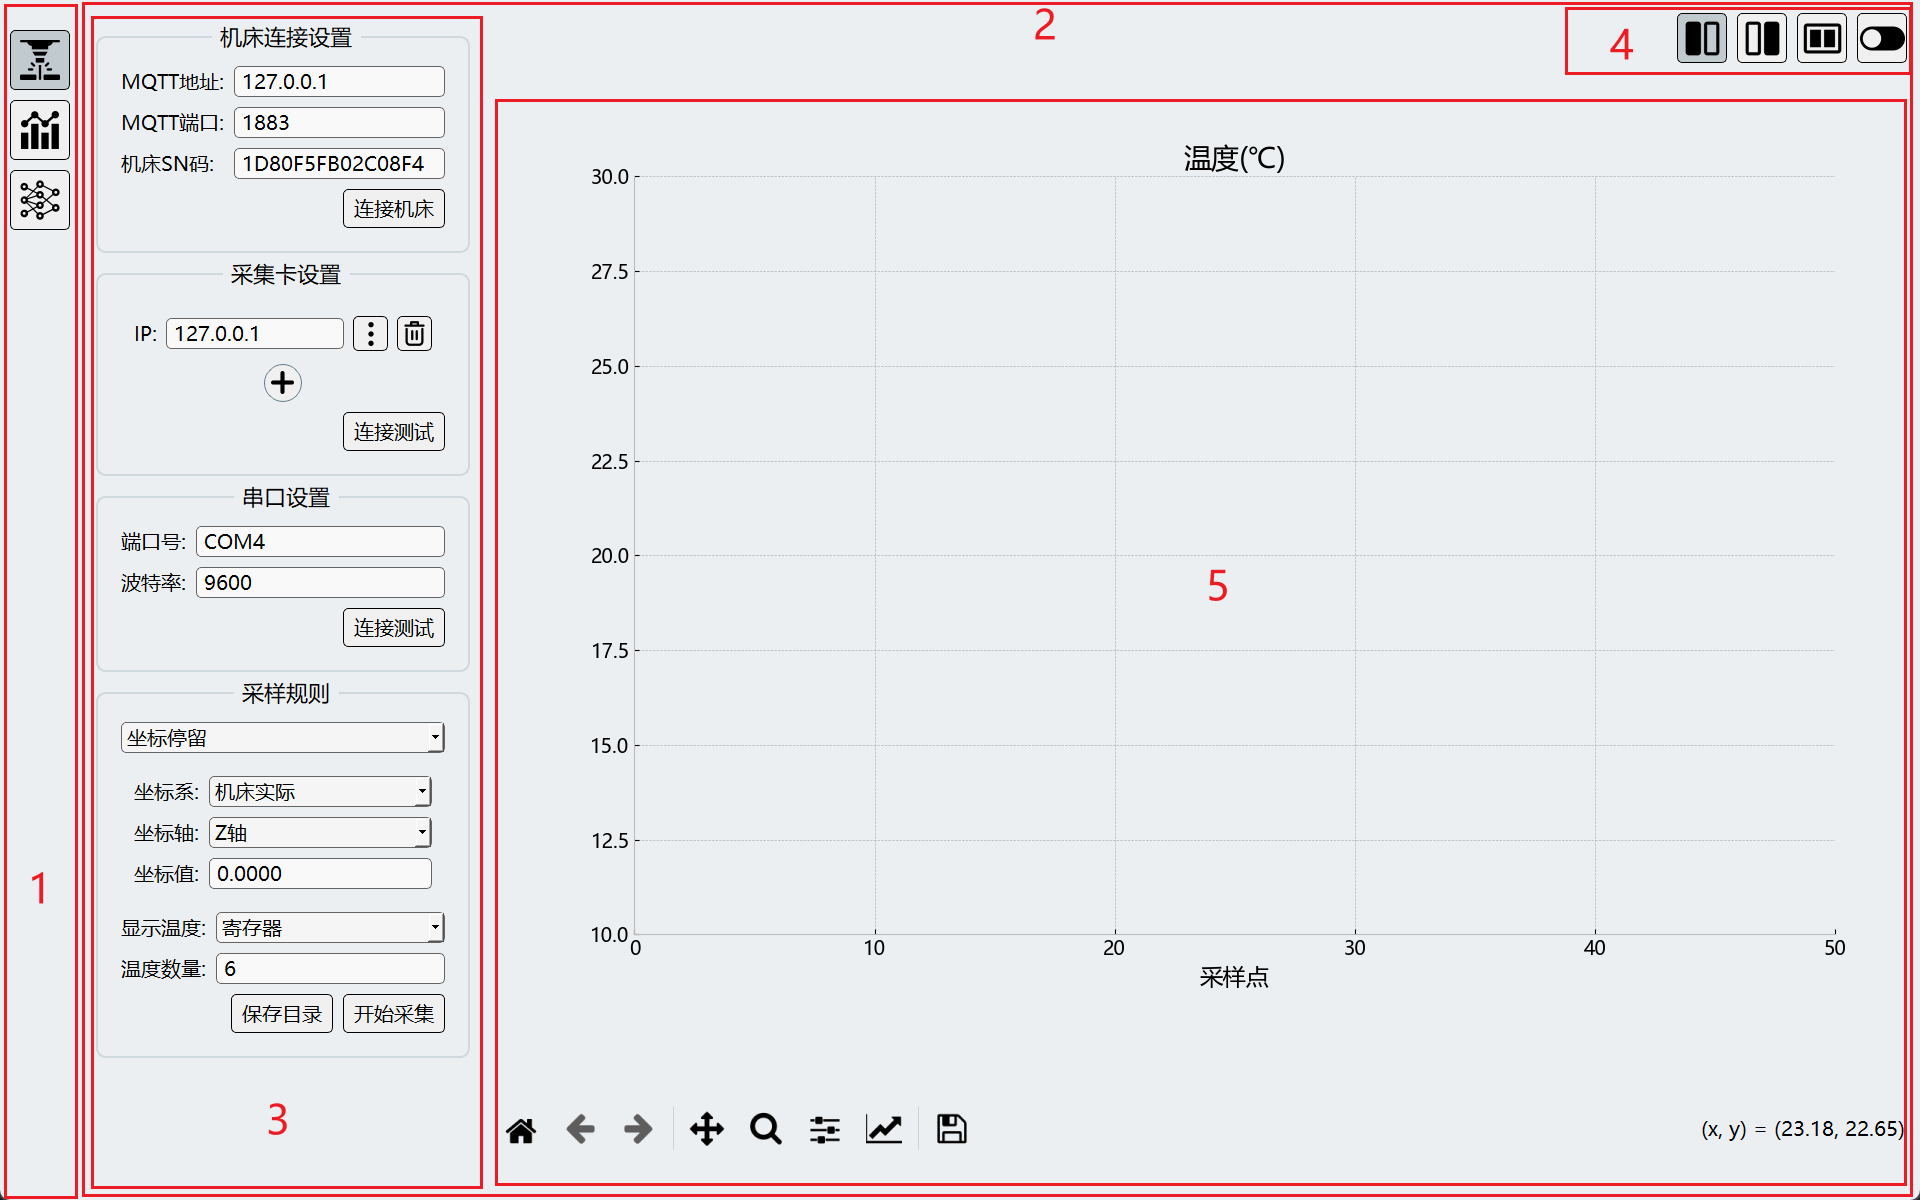
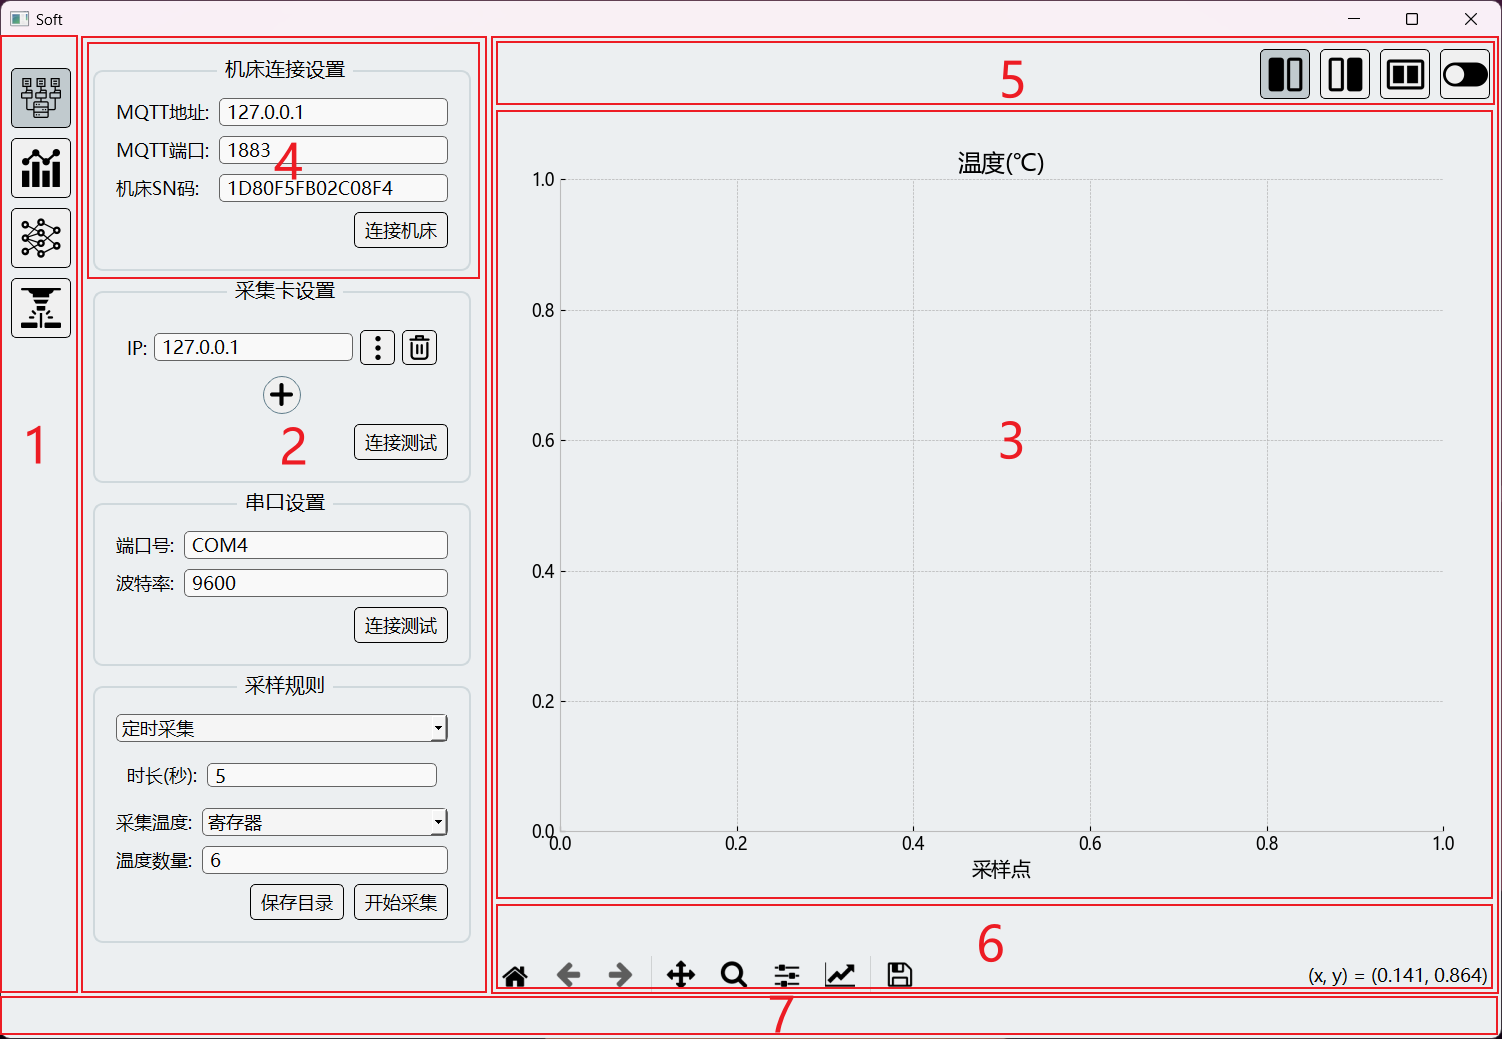
更新添加模型教程文档，更新布局图和使用视频

diff --git a/src/state.py b/src/state.py
@@ -12,9 +12,9 @@ from src.core.func import extract_numbers, extract_numbers
 from PyQt5.QtCore import pyqtSignal as Signal, QObject
 
 
-MAX_DATA_LEN = 3600 * 2  # 原始数据最大长度
+MAX_DATA_LEN = 3600 * 2  # 默认原始数据最大长度
 DEFAULT_SAMPLE_PATH = "./data"  # 默认采集文件夹路径
-RPM_AVG_INTER = 60  # 统计RPM平均值间隔(s)
+RPM_AVG_INTER = 60  # 默认统计RPM平均值间隔(s)
 
 
 class State(QObject):
@@ -369,38 +369,32 @@ class State(QObject):
                 print("设值失败")
 
     def load_model(self, para):
-        """
-        para["model_type"]  - 模型类型
-            对于"GAT-LSTM":
-                - para["num_heads"] - num_heads
-                - para["gnn_dim"] - gnn_dim
-                - para["lstm_dim"] - lstm_dim
-                - para["num_nodes"] - num_nodes
-                - para["seq_len"] - seq_len
-            其他模型:
-                -
-        para["file_path"] - 模型文件路径
-        """
-        match para["model_type"]:
+        # para中包含了模型类型、模型参数和文件路径
+        import torch
+
+        self.reset_model(model_type=para["model_type"], model_para=para)
+        self.model.load_state_dict(torch.load(para["file_path"]))
+    
+    # 重置模型
+    def reset_model(self, model_type, model_para):
+        match model_type:
             case "GAT-LSTM":
-                import torch
                 from src.core.gat_lstm import GATLSTM
 
                 self.model = GATLSTM(
                     in_dim=1,
                     out_dim=1,
-                    gat_hidden_dim=para["gnn_dim"],
-                    lstm_hidden_dim=para["lstm_dim"],
-                    num_nodes=para["num_nodes"],
-                    heads=para["num_heads"],
+                    gat_hidden_dim=model_para["gnn_dim"],
+                    lstm_hidden_dim=model_para["lstm_dim"],
+                    num_nodes=model_para["num_nodes"],
+                    heads=model_para["num_heads"],
                 )
-                self.model.load_state_dict(torch.load(para["file_path"]))
-            case "BPNN":
-                import torch
+            case _:
                 from src.core.bpnn import BPNN
 
-                self.model = BPNN(hidden_units=para["hidden_dim"], input_shape=para["input_shape"], output_shape=1)
-                self.model.load_state_dict(torch.load(para["file_path"]))
+                self.model = BPNN(
+                    input_shape=model_para["input_shape"], hidden_units=model_para["hidden_dim"], output_shape=1
+                )
 
     def start_train(self, para, tsp_res_text):
         # 获取选取的温度测点列表
@@ -453,27 +447,6 @@ class State(QObject):
 
         return datasets
 
-    # 重置模型
-    def reset_model(self, model_type, model_para):
-        match model_type:
-            case "GAT-LSTM":
-                from src.core.gat_lstm import GATLSTM
-
-                self.model = GATLSTM(
-                    in_dim=1,
-                    out_dim=1,
-                    gat_hidden_dim=model_para["gnn_dim"],
-                    lstm_hidden_dim=model_para["lstm_dim"],
-                    num_nodes=model_para["num_nodes"],
-                    heads=model_para["num_heads"],
-                )
-            case _:
-                from src.core.bpnn import BPNN
-
-                self.model = BPNN(
-                    input_shape=model_para["input_shape"], hidden_units=model_para["hidden_dim"], output_shape=1
-                )
-
     def train_thread_start(self, model_type, train_para):
         self.signal_start_train.emit()
         match model_type:
@@ -515,4 +488,3 @@ class State(QObject):
 
         torch.save(self.model.state_dict(), file_path)
 
-    # def import_tem_model(self, )

diff --git a/src/components/sample_rule_setting.py b/src/components/sample_rule_setting.py
@@ -10,7 +10,6 @@ from PyQt5.QtWidgets import (
     QFileDialog,
     QFormLayout,
     QGroupBox,
-    QCheckBox,
 )
 
 from src.components.combo_options import ComboOptions

diff --git a/readme.md b/readme.md
@@ -34,9 +34,10 @@ pip install -r requirements.txt
 
 <img src="doc/layout.png" alt="image-20240909154620636" style="zoom:33%;" />
 
-- 1：侧边导航栏，切换页面到 采集数据\分析数据\训练模型，也可以用 `CTRL + UP \ DOWN` 来翻页
-- 2：右侧整个是一个`QStackedWidget`(堆叠控件)，堆叠了三个页面
-- 3：每个页面中，左侧是一些相关的设置，中间是一个`QSplitter`(拖拉调整比例), 右侧为图像显示区域
+- 侧边导航栏`(1)`，切换页面到 采集数据\分析数据\训练模型，也可以用 `CTRL + UP \ DOWN` 来翻页
+- 右侧整个是一个`QStackedWidget`(堆叠控件)，堆叠了三个页面
+- 每个页面中，左侧`(2)`是一些相关的设置`(4)`，中间是一个`QSplitter`(拖拉调整比例), 右侧为图像显示区域,包含显示内容切换按钮`(5)`、图像区域`(3)`和图像工具栏`(6)`
+- 下方(7)是状态信息栏
 
 命令行运行：
 
@@ -67,6 +68,32 @@ black --line-length 100 ./src/
 - 对于8型系统，它作为一个MQTT客户端，不具备MQTT代理功能，所以本地电脑需要安装MQTT代理，例如 [mosquitto](https://mosquitto.org/)，所以输入项中的"MQTT地址"需要填写本地地址；数控系统端还需要把NC-LINK设置下的地址改为电脑IP
 - 对于9型系统，由于内置了mosquitto，所以地址填写9型系统上位机IP地址
 
-
-
 **注意事项**: 连接之前需要关闭电脑的防火墙
+
+### 2.4 添加模型
+
+#### 2.4.1 界面参数
+
+在`src\components\model_choose.py`中：
+
+- 界面添加模型所需参数的输入：
+`create_model_type_widget`方法下添加相应的参数`widget`, 并添加到`model_stacked`
+- 添加更新模型显示条件分支：
+`update_model_type_widget`方法下添加对应模型名称的`match`分支, 并设置切换页面
+- 设置传递的模型字典信号：
+`get_model_para`方法下添加对应模型名称的`match`分支, 设置好传递的模型参数字典
+
+#### 2.4.2 后端逻辑
+
+`src\state.py`中：
+
+- 设置导入模型：
+`reset_model`方法下`match`分支添加模型实例化方法
+- 创建训练数据集：
+`get_datasets`方法下`match`分支添加模型训练数据集创建方法
+- 设置DataLoader（因为torch_geometric和torch的DataLoader是不兼容的）：
+`train_thread_start`方法下确定用到的DataLoader
+
+`src\thread\model_train_thread.py`(非必要)
+
+- 如果用到了另外的DataLoader, 还需在`get_loss`方法中添加计算损失值的方法
